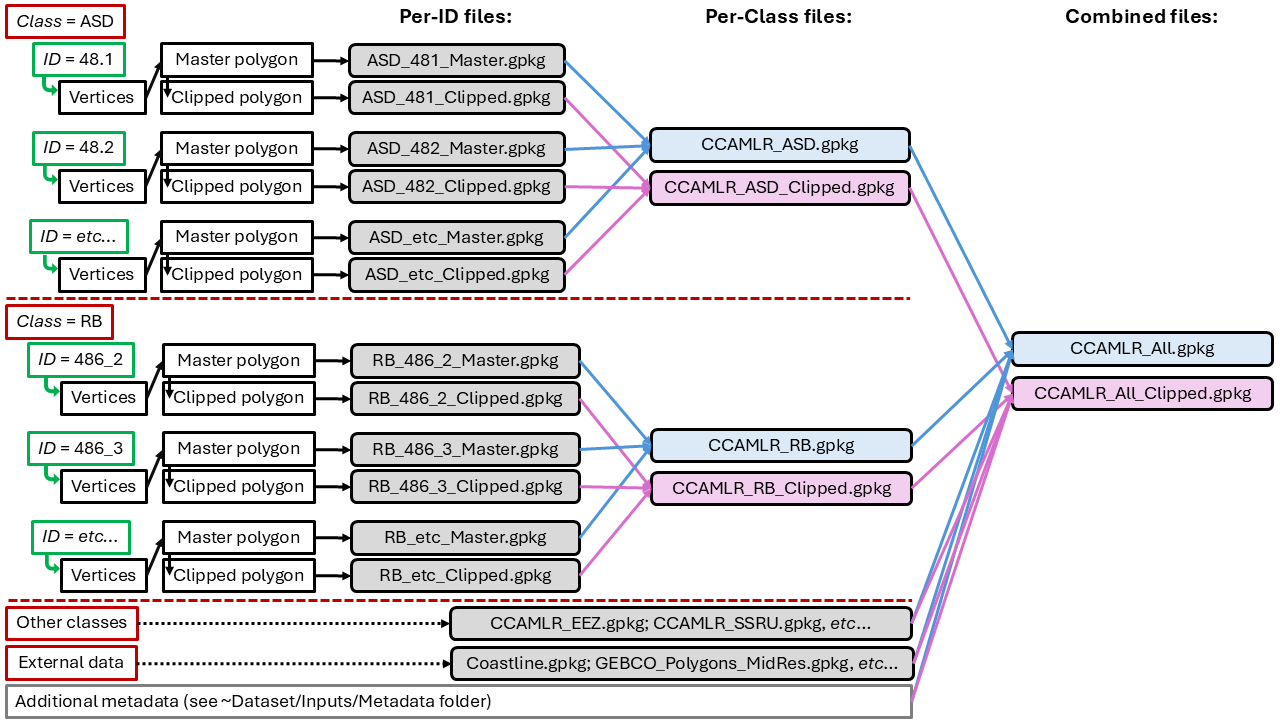
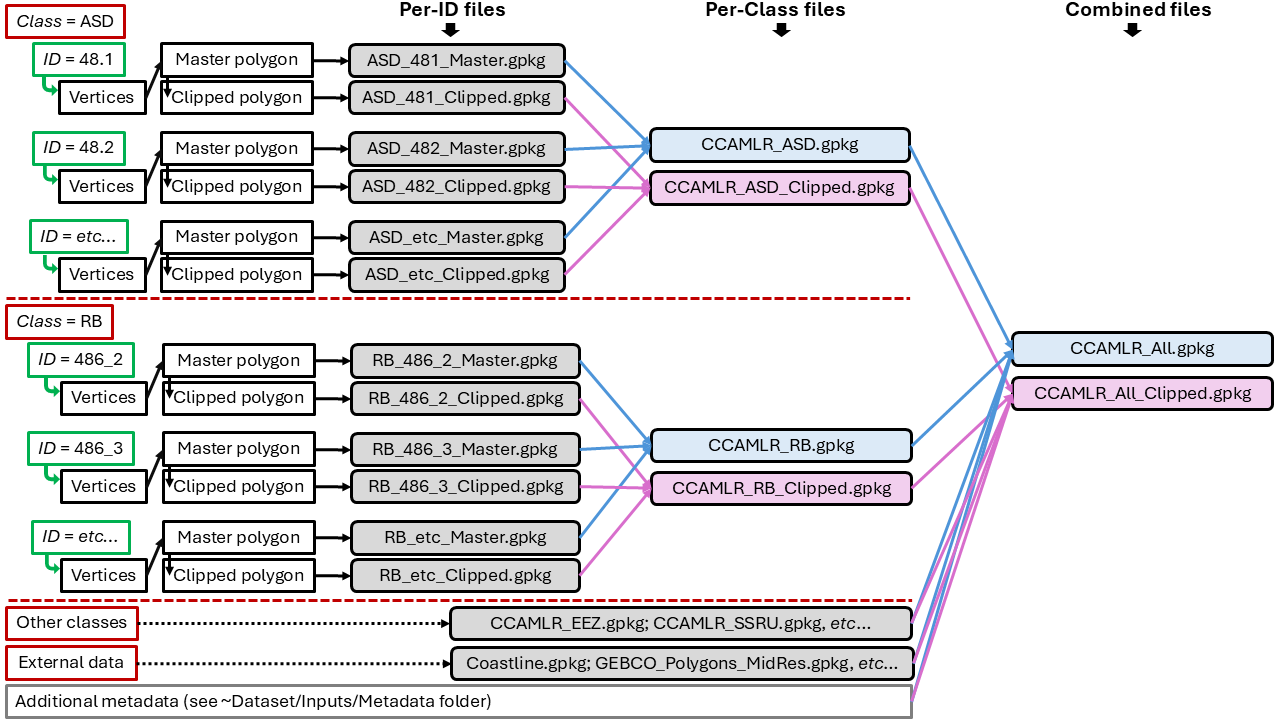
Update

diff --git a/Documentation/Dataset.md b/Documentation/Dataset.md
@@ -49,12 +49,10 @@ folder, which contains the following sub-folders:
 - External data: Spatial objects that are built using inputs from
   external sources such as coastlines and bathymetry polygons.
 
-- GeoPackages: Spatial objects packaged into standalone *.gpkg* files.
+- GeoPackages: Spatial objects combined into standalone *.gpkg* files.
 
 - Inputs: Scripts and resulting *.csv* files of vertices locations, and
-  additional metadata. These vertices are used to build “Master
-  polygons” (polygons in their simplest form, not clipped to the
-  coastline).
+  additional metadata. These vertices are used to build spatial objects.
 
 - Outputs: Exported spatial objects, in *.gpkg* format. File names are
   formatted as: *Class*\_*ID*\_*Master/Clipped*.gpkg, where *Class* is
@@ -63,7 +61,11 @@ folder, which contains the following sub-folders:
   indicates whether the object was clipped to the latest coastline
   (*Clipped*) or not (*Master*).
 
-ADD MISSING FOLDERS HERE
+- Plots: Figures generated during the creation of spatial objects,
+  useful to visualise vertices and the resulting spatial objects.
+
+- Scripts: R scripts used to (i) collate all necessary types of vertices
+  and (ii) build spatial objects.
 
 ------------------------------------------------------------------------
 
@@ -71,10 +73,10 @@ ADD MISSING FOLDERS HERE
 
 In its simplest form, the workflow is demonstrated in the example given
 [here](https://github.com/ccamlr/geospatial_operations/blob/main/Documentation/Building_Polygons.md#building-polygons),
-and relies on the use of a dataset of vertices (see
-[Inputs](https://github.com/ccamlr/geospatial_operations/tree/main/Dataset/Inputs)
-folder). All polygons have **primary vertices** (as described in their
-FAO definitions, for example) and may have additional vertices that are
+and relies on the use of a dataset of vertices (see [Inputs
+folder](https://github.com/ccamlr/geospatial_operations/tree/main/Dataset/Inputs)).
+All polygons have **primary vertices** (as described in their FAO
+definitions, for example) and may have additional vertices that are
 needed as part of their design. Overall, the dataset of vertices will
 consist of four classes:
 
@@ -116,11 +118,12 @@ Each individual spatial object has a *Class* (*e.g.*, ASD) and *ID*
 the workflow: (i) *ID*\_Step1_Vertices.R collates the **Master
 vertices** (steps 1–4 above), and (ii) *ID*\_Step2_Polygons.R builds the
 spatial objects (steps 5–7 above). All scripts are available in the
-[Scripts](https://github.com/ccamlr/geospatial_operations/tree/main/Dataset/Scripts)
-folder, and figures generated during the process are in the
-[Plots](https://github.com/ccamlr/geospatial_operations/tree/main/Dataset/Plots)
-folder. The grouping of objects into per-*Class* geopackages, as well as
-the collation of all objects into a single “CCAMLR_All” file (steps 8–10
+[Scripts
+folder](https://github.com/ccamlr/geospatial_operations/tree/main/Dataset/Scripts),
+and figures generated during the process are in the [Plots
+folder](https://github.com/ccamlr/geospatial_operations/tree/main/Dataset/Plots).
+The grouping of objects into per-*Class* geopackages, as well as the
+collation of all objects into a single “CCAMLR_All” file (steps 8–10
 above) are done using the “Build_GeoPackages.R” script stored in the
 [GeoPackages
 folder](https://github.com/ccamlr/geospatial_operations/tree/main/Dataset/GeoPackages).
@@ -148,12 +151,35 @@ Figure 2. Summary of geopackage files generation.
 
 ### 3. Subarea 48.1 example
 
-While browsing the
-[Scripts](https://github.com/ccamlr/geospatial_operations/tree/main/Dataset/Scripts)
-may help understand the details of the process used to build individual
+While browsing the [Scripts
+folder](https://github.com/ccamlr/geospatial_operations/tree/main/Dataset/Scripts)
+helps understand the details of the process used to build individual
 files, a step-by-step working example using Subarea 48.1 is given
 [here](https://github.com/ccamlr/geospatial_operations/blob/main/Documentation/Subarea_481_Example.md#subarea-481-example).
 
 ------------------------------------------------------------------------
 
 ### 4. Output files
+
+As described above (Fig. 2) the geospatial workflow generates 3 types of
+files:
+
+- Per-ID files: each is generated by two scripts to store one spatial
+  object, for example: “ASD_481_Master.gpkg”.
+
+- Per-Class files: generated by Build_GeoPackages.R in the [GeoPackages
+  folder](https://github.com/ccamlr/geospatial_operations/tree/main/Dataset/GeoPackages),
+  which combines per-ID files of the same *Class*, for example:
+  “CCAMLR_ASD.gpkg”.
+
+- Combined files: generated by Build_GeoPackages.R in the [GeoPackages
+  folder](https://github.com/ccamlr/geospatial_operations/tree/main/Dataset/GeoPackages),
+  which combines all per-Class files, adds external files and additional
+  metadata. Two files exist: “CCAMLR_All.gpkg” and
+  “CCAMLR_All_Clipped.gpkg”.
+
+- External files: generated using external data and stored with their
+  scripts in the [External data
+  folder](https://github.com/ccamlr/geospatial_operations/tree/main/Dataset/External%20data).
+  Their documentation is available
+  [here](https://github.com/ccamlr/geospatial_operations/blob/main/Documentation/External_data.md).

diff --git a/Documentation/External_data.md b/Documentation/External_data.md
@@ -1,0 +1,30 @@
+
+<!-- README.md is generated from README.Rmd. Please edit that file -->
+
+<center>
+
+# External data
+
+</center>
+
+------------------------------------------------------------------------
+
+<center>
+
+### Overview
+
+</center>
+
+**UNDER CONSTRUCTION**
+
+------------------------------------------------------------------------
+
+### 1. Section 1
+
+------------------------------------------------------------------------
+
+### 2. Section 2
+
+------------------------------------------------------------------------
+
+### 3. Section 3
